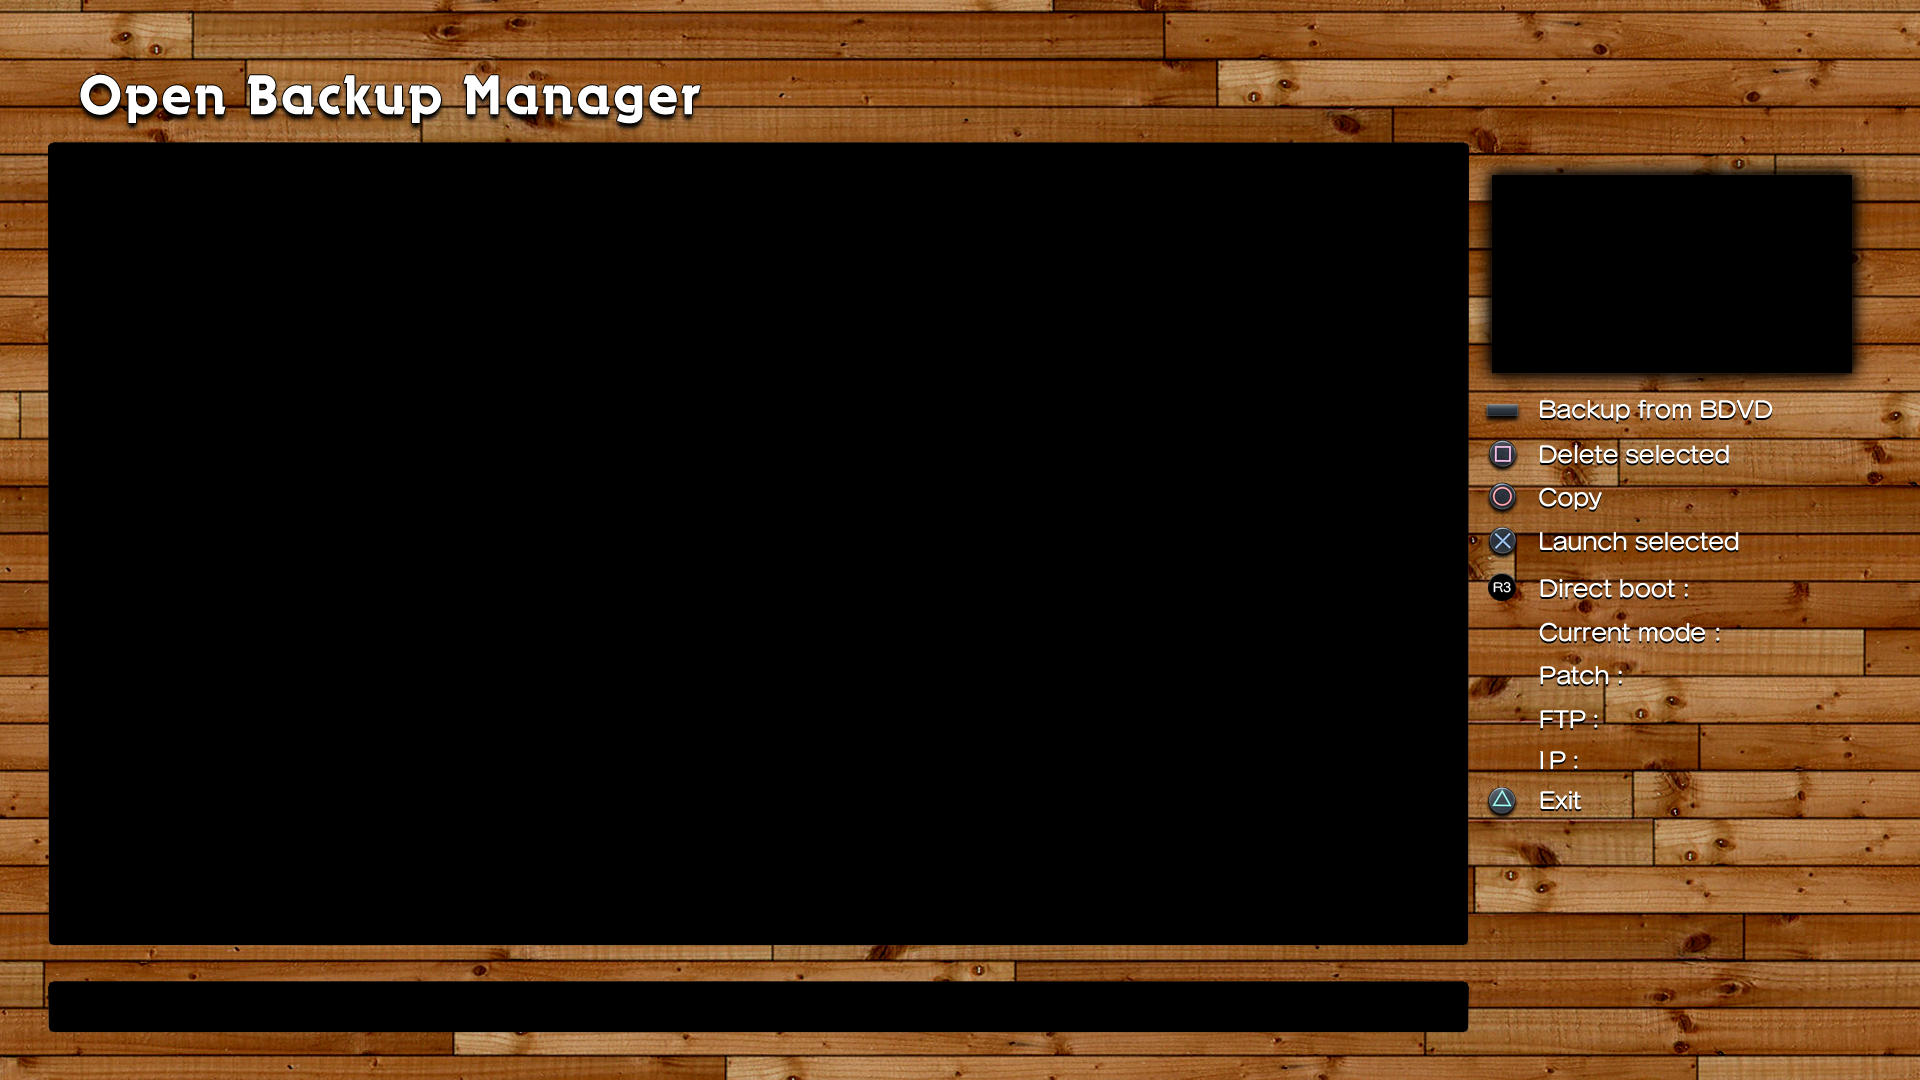
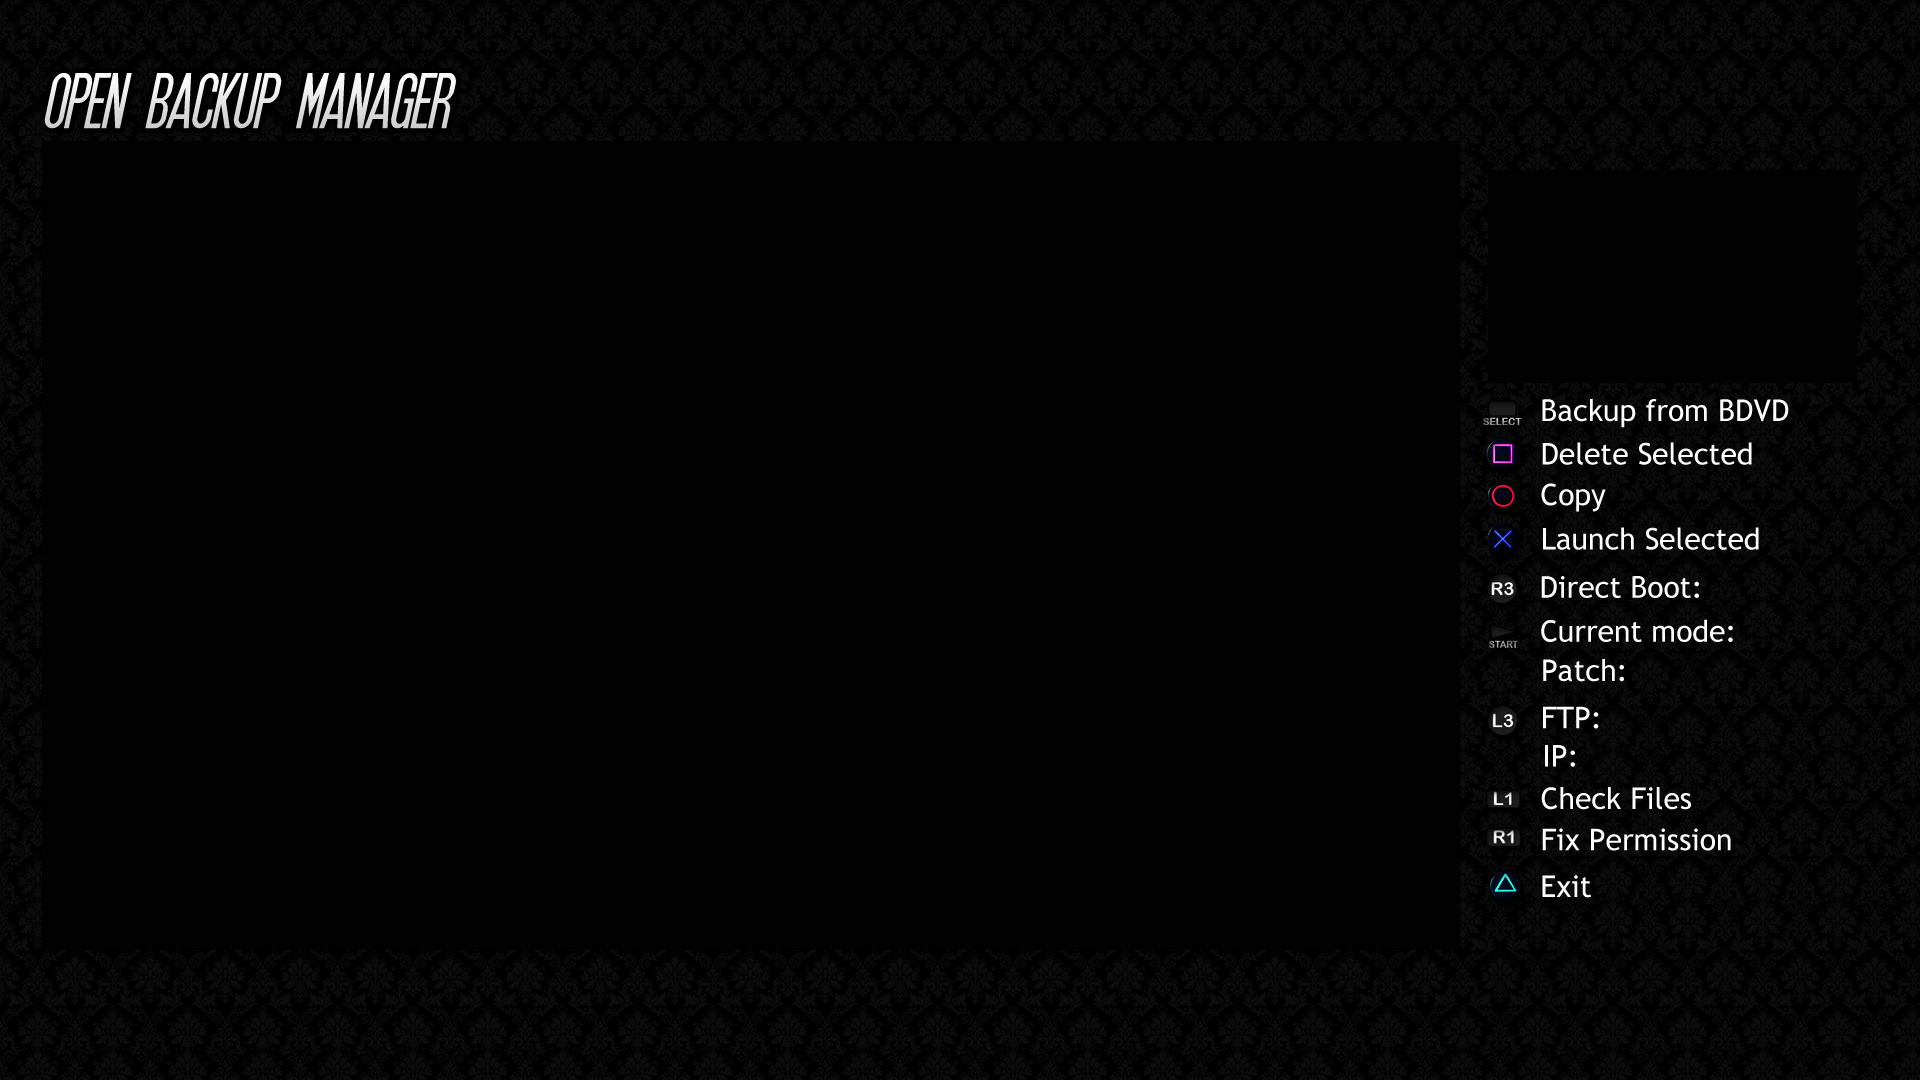
Use another background (BG.png), align the text for that background

diff --git a/graphics.cpp b/graphics.cpp
@@ -714,11 +714,11 @@ void draw_device_list(u32 flags, int region, int hermes, int direct_boot, int ft
 		// homebrew
 		if((flags>>31) & 1)
 		{
-			draw_text_stroke(0.9f, 0.575f, 0.8f, 0xff00ffff, "HOMEBREW");
+			draw_text_stroke(0.91f, 0.575f, 0.8f, 0xff00ffff, "HOMEBREW");
 		}
 		else
 		{
-			draw_text_stroke(0.9f, 0.575f, 0.8f, 0xffffff00, "GAME");
+			draw_text_stroke(0.91f, 0.575f, 0.8f, 0xffffff00, "GAME");
 		}
 		// gray bar
 		//draw_square(-1.0f, (0.5f-y+0.05f)*2.0f, 2.0f, 0.25f /*1.0f-(0.5f-y-0.05f)*2.0f*/, -0.1f, 0x605050ff);
@@ -727,7 +727,7 @@ void draw_device_list(u32 flags, int region, int hermes, int direct_boot, int ft
 
 		cellNetCtlGetInfo(CELL_NET_CTL_INFO_IP_ADDRESS, &info);
 		sprintf(ipaddr, "%16s", info.ip_address);
-		draw_text_stroke( 0.8f, 0.694, 0.7f, 0xff00ffff, ipaddr);
+		draw_text_stroke( 0.8f, 0.691, 0.8f, 0xff00ffff, ipaddr);
 
 
 // hermes text
@@ -743,11 +743,11 @@ void draw_device_list(u32 flags, int region, int hermes, int direct_boot, int ft
 
 		if (direct_boot == 1)
 		{
-			draw_text_stroke(0.885f, 0.535f, 0.8f, 0xff00ff00, "ON");
+			draw_text_stroke(0.89f, 0.535f, 0.8f, 0xff00ff00, "ON");
 		}
 		else
 		{
-			draw_text_stroke(0.885f, 0.535f, 0.8f, 0xff0000ff, "OFF");
+			draw_text_stroke(0.89f, 0.535f, 0.8f, 0xff0000ff, "OFF");
 		}
 		if (ftp)
 		{
